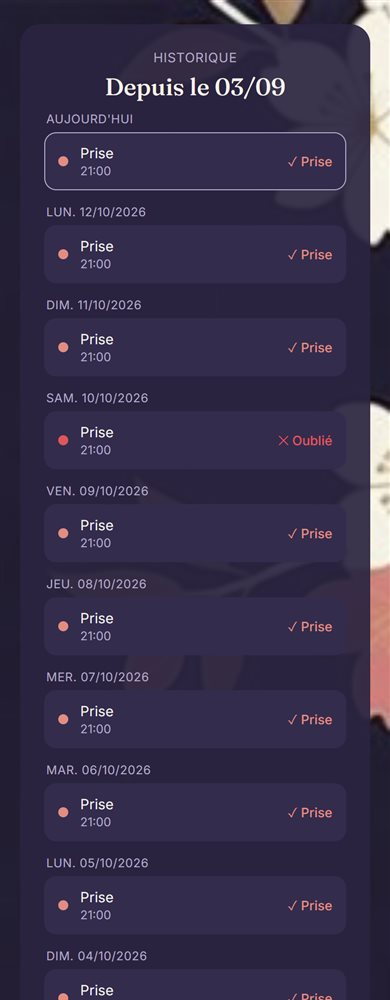
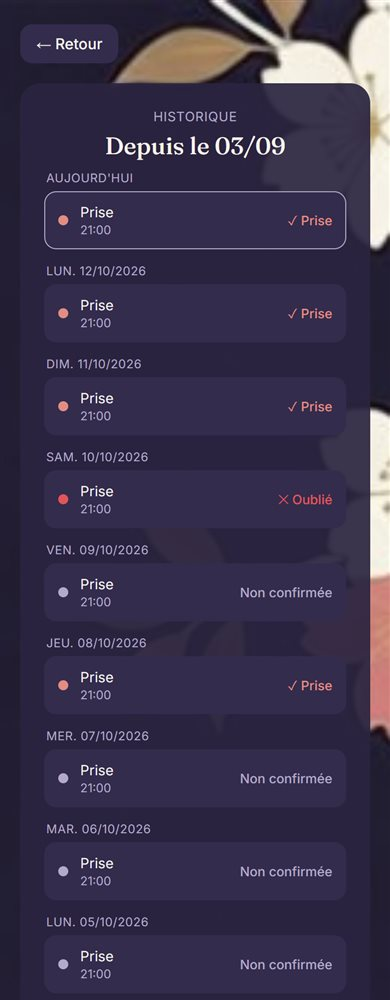
fix: l'historique n'affiche plus comme prises les prises non confirmées
- une journée de prise s'affichait « ✓ Prise » dès lors qu'elle n'était pas
  signalée comme oubliée, y compris le jour même avant toute confirmation.
  Elle n'est maintenant « prise » que si elle a été confirmée ; sinon elle
  apparaît « à prendre » (aujourd'hui) ou « non confirmée » (jours passés)
- bouton de retour en haut de l'historique, qui reste visible pendant le
  défilement : il fallait descendre tout en bas de la liste pour revenir
- chaque changement d'écran remonte en haut de page

diff --git a/test/api.test.js b/test/api.test.js
@@ -238,7 +238,25 @@ test('l\'historique part de la création du suivi et marque les oublis', async (
   assert.equal(res.body.days[9].isToday, true);
   assert.equal(res.body.days[3].missed, true);
   assert.equal(res.body.days.filter((d) => d.missed).length, 1);
+  assert.equal(res.body.days.filter((d) => d.confirmed).length, 0);
   assert.ok(res.body.days.every((d) => d.phase === 'pill'));
+});
+
+test('l\'historique distingue les prises confirmées de celles qui ne le sont pas', async () => {
+  useDb(onboardedRow({ confirmed_dates: ['2026-01-12', '2026-01-13'], missed_dates: ['2026-01-08'] }));
+  const days = (await call(historyHandler, { headers: ACCESS })).body.days;
+  const byDate = Object.fromEntries(days.map((d) => [d.date, d]));
+  assert.equal(byDate['2026-01-13'].confirmed, true);
+  assert.equal(byDate['2026-01-12'].confirmed, true);
+  assert.equal(byDate['2026-01-11'].confirmed, false); // ni confirmée ni oubliée
+  assert.equal(byDate['2026-01-08'].confirmed, false);
+  assert.equal(byDate['2026-01-08'].missed, true);
+  assert.equal(byDate['2026-01-14'].confirmed, false); // aujourd'hui, pas encore prise
+
+  // Confirmer aujourd'hui se voit aussitôt dans l'historique
+  await call(stateHandler, { method: 'POST', headers: ACCESS, body: { action: 'confirm_taken_today' } });
+  const after = (await call(historyHandler, { headers: ACCESS })).body.days;
+  assert.equal(after[after.length - 1].confirmed, true);
 });
 
 test('l\'historique est limité à 365 jours et au nombre demandé', async () => {

diff --git a/public/app.js b/public/app.js
@@ -15,6 +15,7 @@
   function showScreen(name) {
     Object.values(screens).forEach((el) => el.classList.add('hidden'));
     screens[name].classList.remove('hidden');
+    window.scrollTo(0, 0);
   }
 
   function showDebugError(message) {
@@ -363,11 +364,17 @@
         buildIntakeCell(main);
         status.textContent = '✕ Oublié';
         status.classList.add('missed');
-      } else if (day.phase === 'pill') {
+      } else if (day.phase === 'pill' && day.confirmed) {
         icon.style.background = 'var(--rose)';
         buildIntakeCell(main);
         status.textContent = '✓ Prise';
         status.classList.add('taken');
+      } else if (day.phase === 'pill') {
+        // Ni confirmée ni signalée comme oubliée : on ne prétend pas qu'elle a été prise
+        icon.style.background = 'var(--text-muted)';
+        buildIntakeCell(main);
+        status.textContent = day.isToday ? 'À prendre' : 'Non confirmée';
+        status.classList.add('pending');
       } else {
         icon.style.background = 'var(--gold)';
         const title = document.createElement('div');
@@ -396,9 +403,10 @@
       }
     };
 
-    document.getElementById('history-back-btn').onclick = () => {
-      showScreen('main');
-    };
+    // Un bouton en haut, qui reste visible pendant le défilement, et un en bas de liste
+    ['history-back-top-btn', 'history-back-btn'].forEach((id) => {
+      document.getElementById(id).onclick = () => showScreen('main');
+    });
   }
 
   function bindOnboardingForm(prefill) {

diff --git a/public/styles.css b/public/styles.css
@@ -342,3 +342,17 @@ input, select {
 .history-row-status.taken { color: var(--rose); }
 .history-row-status.pause { color: var(--gold); }
 .history-row-status.missed { color: #E0555A; }
+.history-row-status.pending { color: var(--text-muted); }
+
+/* Bouton de retour en haut de l'historique : reste visible quand on fait défiler la liste */
+.history-back-top {
+  position: sticky;
+  top: calc(8px + env(safe-area-inset-top));
+  z-index: 5;
+  align-self: flex-start;
+  background: var(--surface-2);
+  color: var(--text);
+  text-decoration: none;
+  padding: 10px 16px;
+  border-radius: var(--radius-sm);
+}

diff --git a/api/history.js b/api/history.js
@@ -24,6 +24,7 @@ module.exports = async function handler(req, res) {
     }
 
     const missed = new Set(row.missed_dates || []);
+    const confirmed = new Set(row.confirmed_dates || []);
     const todayISO = getTodayISO(config, now());
 
     // On ne remonte jamais avant la création réelle du suivi : pas
@@ -45,6 +46,7 @@ module.exports = async function handler(req, res) {
         phase: info.phase,
         packNumberInBox: info.packNumberInBox,
         missed: missed.has(dateISO),
+        confirmed: confirmed.has(dateISO),
         isToday: dateISO === todayISO,
       });
     }

diff --git a/scripts/dev-server.js b/scripts/dev-server.js
@@ -29,7 +29,7 @@ const seeded = process.env.DEV_SEED
       pack_start_date: addDaysISO(getTodayISO(), -Number(process.env.DEV_SEED_DAY || 9)),
       pack_number_in_box: 2,
       missed_dates: [addDaysISO(getTodayISO(), -3)],
-      confirmed_dates: [],
+      confirmed_dates: [addDaysISO(getTodayISO(), -1), addDaysISO(getTodayISO(), -2), addDaysISO(getTodayISO(), -5)],
       push_subscription: { endpoint: 'https://push.example.com/dev' },
       created_at: new Date(Date.now() - 40 * 86400000).toISOString(),
     }

diff --git a/public/index.html b/public/index.html
@@ -133,6 +133,8 @@
 
 <!-- Historique -->
 <div id="history-screen" class="screen hidden">
+  <button id="history-back-top-btn" class="btn-ghost history-back-top">← Retour</button>
+
   <div class="card">
     <p class="eyebrow center-text">Historique</p>
     <h2 class="center-text" id="history-subtitle">Depuis le début du suivi</h2>

diff --git a/README.md b/README.md
@@ -16,7 +16,7 @@ Je l'ai écrite pour un proche qui ne trouvait pas d'application qui lui convena
 - Elle envoie une notification chaque soir à heure fixe, même téléphone verrouillé.
 - Elle envoie un rappel de secours une heure plus tard si la prise n'a pas été confirmée.
 - Elle prévient qu'il faut racheter une boîte pendant la pause de la dernière plaquette.
-- Elle garde l'historique des prises, des pauses et des oublis.
+- Elle garde l'historique des prises confirmées, des pauses et des oublis ; une prise ni confirmée ni signalée comme oubliée y apparaît comme « non confirmée ».
 
 Le cycle, les heures de rappel et le nom du médicament se règlent par configuration. Par défaut, aucun nom de médicament n'apparaît nulle part.
 
@@ -82,5 +82,4 @@ Le guide pas à pas est dans [DEPLOY.md](DEPLOY.md) : base Supabase, clés VAPID
 
 - L'application suit une seule personne par déploiement : une ligne en base, un code d'accès.
 - Le code d'accès est un secret partagé, pas un compte utilisateur. Il n'y a pas de limite au nombre d'essais : il doit être long et aléatoire.
-- L'historique affiche comme « prise » toute journée de prise qui n'a pas été signalée comme oubliée, qu'elle ait été confirmée ou non.
 - C'est un outil de rappel. Il ne remplace ni la notice du médicament ni un avis médical.
